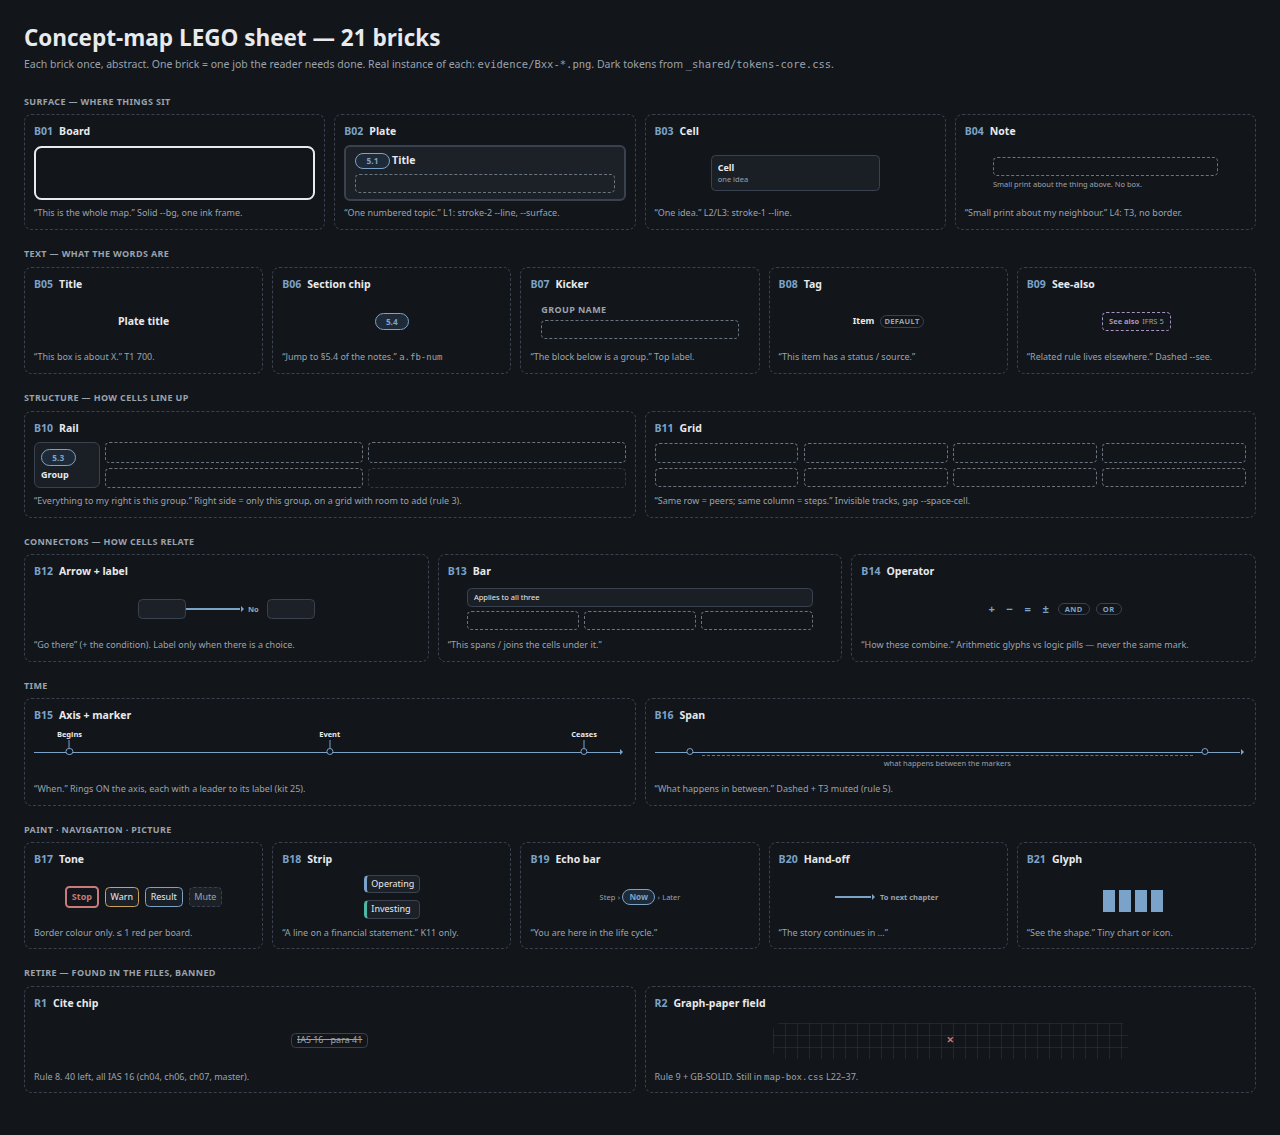
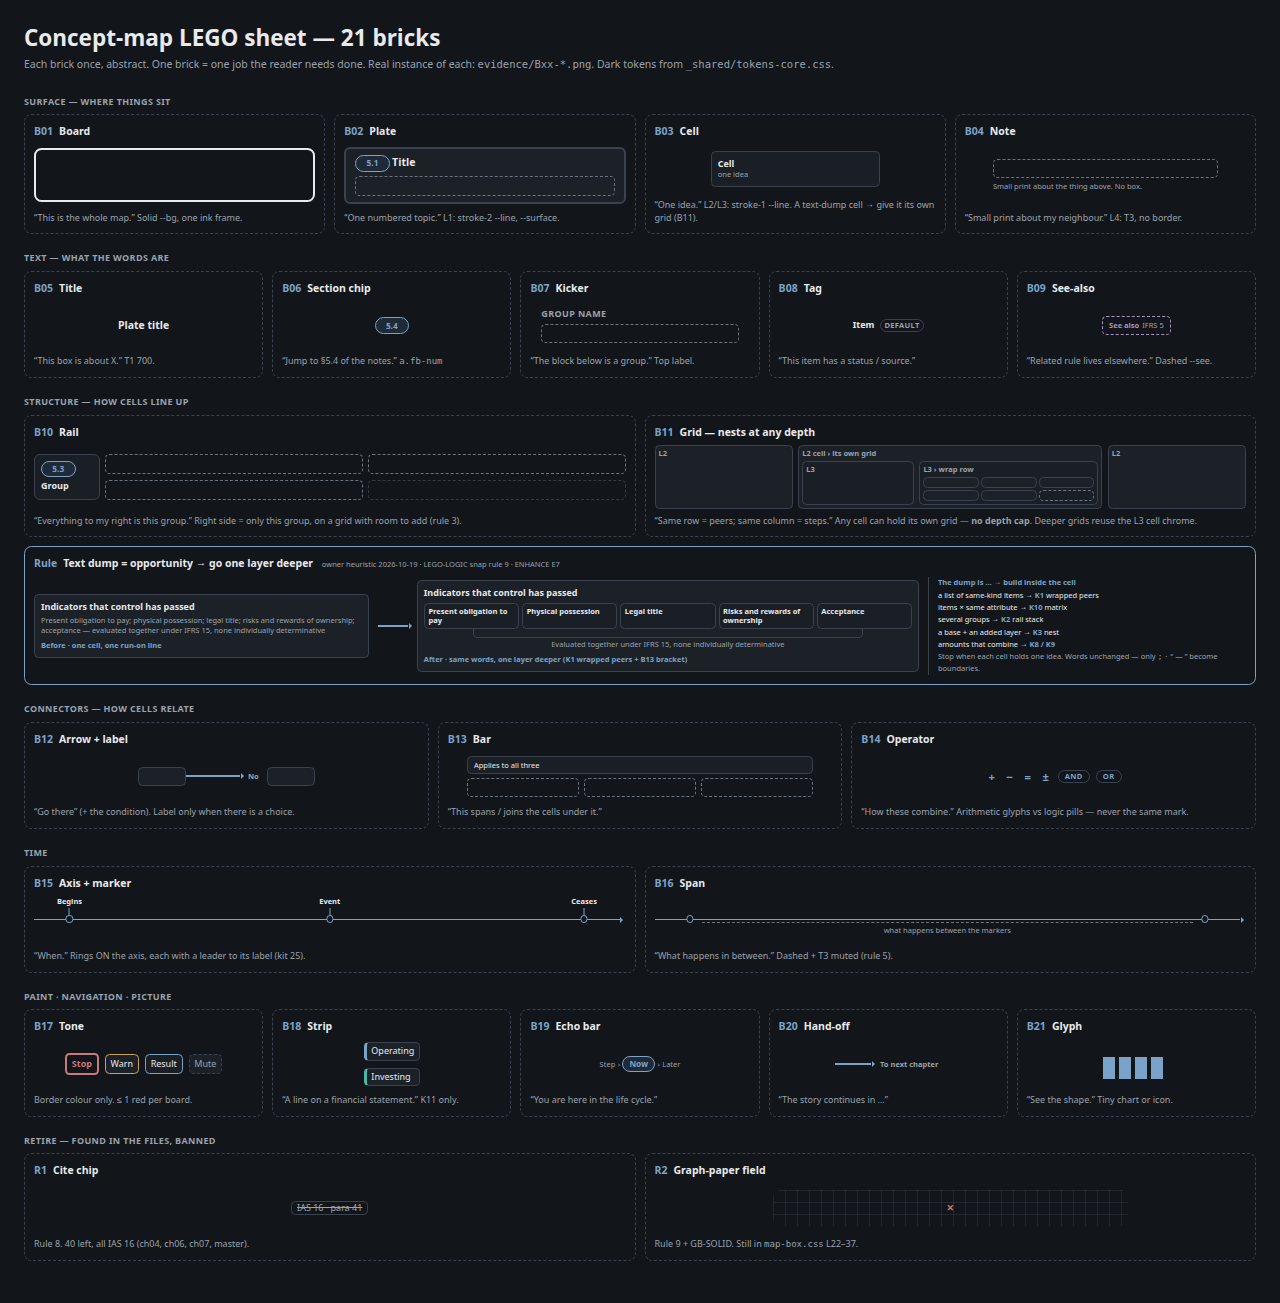
LEGO kit: sheet and combos show nested grids and the go-deeper rule

diff --git a/design/row98-lego-kit/mocks/lego-sheet.html b/design/row98-lego-kit/mocks/lego-sheet.html
@@ -1,6 +1,21 @@
 <!doctype html>
 <html lang="en"><head><meta charset="utf-8"><title>LEGO sheet — 21 bricks</title>
-<link rel="stylesheet" href="kit.css"></head>
+<link rel="stylesheet" href="kit.css">
+<style>
+  .nest-c { padding: .25rem; background: var(--surface); min-height: 2.6rem; }
+  .nest-c.in { background: var(--band); min-height: 1.8rem; }
+  .nest-d { padding: 0; min-height: .9rem; background: var(--surface); }
+  .lv { display: block; font-size: var(--t3-fs); color: var(--muted); font-weight: 700; line-height: 1.2; }
+  .deeper { border: var(--stroke-1) solid var(--accent); border-radius: var(--radius-m); padding: var(--space-3); margin-top: var(--space-3); }
+  .deeper .slot-id b { color: var(--accent); margin-right: var(--space-2); }
+  .dref { font-size: var(--t3-fs); color: var(--muted); font-weight: 400; margin-left: var(--space-2); }
+  .deeper-row { display: grid; grid-template-columns: minmax(0, 1fr) auto minmax(0, 1.5fr) minmax(0, .95fr); gap: var(--space-3); align-items: center; margin-top: var(--space-2); }
+  .pk { padding: .2rem .3rem; font-size: var(--t3-fs); font-weight: 700; line-height: 1.25; }
+  .dk { font-size: var(--t3-fs); color: var(--accent); font-weight: 700; margin: .35rem 0 0; }
+  .routes { border-left: var(--stroke-1) solid var(--line); padding-left: var(--space-3); }
+  .rt { margin: 0 0 .15rem; font-size: var(--t3-fs); }
+  .rt b { color: var(--accent); }
+</style></head>
 <body>
 <h1 class="sheet-h">Concept-map LEGO sheet — 21 bricks</h1>
 <p class="sheet-sub">Each brick once, abstract. One brick = one job the reader needs done. Real instance of each: <code>evidence/Bxx-*.png</code>. Dark tokens from <code>_shared/tokens-core.css</code>.</p>
@@ -15,7 +30,7 @@
     <p class="slot-job">“One numbered topic.” L1: stroke-2 --line, --surface.</p></div>
   <div class="slot"><p class="slot-id"><b>B03</b>Cell</p>
     <div class="stage"><div class="cell band" style="width:60%"><span class="title-s">Cell</span><div class="note">one idea</div></div></div>
-    <p class="slot-job">“One idea.” L2/L3: stroke-1 --line.</p></div>
+    <p class="slot-job">“One idea.” L2/L3: stroke-1 --line. A text-dump cell → give it its own grid (B11).</p></div>
   <div class="slot"><p class="slot-id"><b>B04</b>Note</p>
     <div class="stage"><div style="width:80%"><div class="ghost"></div><p class="note" style="margin:.3rem 0 0">Small print about the thing above. No box.</p></div></div>
     <p class="slot-job">“Small print about my neighbour.” L4: T3, no border.</p></div>
@@ -46,10 +61,43 @@
     <div class="stage"><div class="railrow s" style="width:100%"><div class="rail"><span class="chip">5.3</span>Group</div>
       <div class="gridbox" style="grid-template-columns:1fr 1fr"><div class="ghost"></div><div class="ghost"></div><div class="ghost"></div><div class="ghost" style="opacity:.4"></div></div></div></div>
     <p class="slot-job">“Everything to my right is this group.” Right side = only this group, on a grid with room to add (rule 3).</p></div>
-  <div class="slot"><p class="slot-id"><b>B11</b>Grid</p>
-    <div class="stage"><div class="gridbox" style="grid-template-columns:repeat(4,1fr);width:100%"><div class="ghost"></div><div class="ghost"></div><div class="ghost"></div><div class="ghost"></div><div class="ghost"></div><div class="ghost"></div><div class="ghost"></div><div class="ghost"></div></div></div>
-    <p class="slot-job">“Same row = peers; same column = steps.” Invisible tracks, gap --space-cell.</p></div>
-</div></section>
+  <div class="slot"><p class="slot-id"><b>B11</b>Grid — nests at any depth</p>
+    <div class="stage"><div class="gridbox" style="grid-template-columns:1fr 2.2fr 1fr;width:100%;align-items:stretch">
+      <div class="cell nest-c"><span class="lv">L2</span></div>
+      <div class="cell nest-c"><span class="lv">L2 cell › its own grid</span>
+        <div class="gridbox" style="grid-template-columns:1fr 1.6fr;margin-top:.25rem">
+          <div class="cell nest-c in"><span class="lv">L3</span></div>
+          <div class="cell nest-c in"><span class="lv">L3 › wrap row</span>
+            <div class="gridbox" style="grid-template-columns:repeat(3,1fr);gap:.2rem;margin-top:.2rem"><div class="cell nest-d"></div><div class="cell nest-d"></div><div class="cell nest-d"></div><div class="cell nest-d"></div><div class="cell nest-d"></div><div class="ghost" style="min-height:.9rem"></div></div></div>
+        </div></div>
+      <div class="cell nest-c"><span class="lv">L2</span></div></div></div>
+    <p class="slot-job">“Same row = peers; same column = steps.” Any cell can hold its own grid — <b>no depth cap</b>. Deeper grids reuse the L3 cell chrome.</p></div>
+</div>
+
+<div class="deeper">
+  <p class="slot-id"><b>Rule</b>Text dump = opportunity → go one layer deeper <span class="dref">owner heuristic 2026-10-19 · LEGO-LOGIC snap rule 9 · ENHANCE E7</span></p>
+  <div class="deeper-row">
+    <div class="cell"><span class="title-s">Indicators that control has passed</span>
+      <div class="note" style="margin-top:.2rem">Present obligation to pay; physical possession; legal title; risks and rewards of ownership; acceptance — evaluated together under IFRS 15, none individually determinative</div>
+      <p class="dk">Before · one cell, one run-on line</p></div>
+    <div class="ah" style="width:2.5rem"></div>
+    <div class="cell"><span class="title-s">Indicators that control has passed</span>
+      <div class="gridbox" style="grid-template-columns:repeat(5,1fr);gap:.25rem;margin-top:.3rem">
+        <div class="cell band pk">Present obligation to pay</div><div class="cell band pk">Physical possession</div><div class="cell band pk">Legal title</div><div class="cell band pk">Risks and rewards of ownership</div><div class="cell band pk">Acceptance</div></div>
+      <div class="junction" style="margin:0 10%"></div>
+      <div class="note" style="text-align:center;margin-top:.2rem">Evaluated together under IFRS 15, none individually determinative</div>
+      <p class="dk">After · same words, one layer deeper (K1 wrapped peers + B13 bracket)</p></div>
+    <div class="routes">
+      <p class="dk" style="margin:0 0 .2rem">The dump is … → build inside the cell</p>
+      <p class="rt">a list of same-kind items → <b>K1</b> wrapped peers</p>
+      <p class="rt">items × same attribute → <b>K10</b> matrix</p>
+      <p class="rt">several groups → <b>K2</b> rail stack</p>
+      <p class="rt">a base + an added layer → <b>K3</b> nest</p>
+      <p class="rt">amounts that combine → <b>K8 / K9</b></p>
+      <p class="rt mute">Stop when each cell holds one idea. Words unchanged — only <code>;</code> <code>·</code> “ — ” become boundaries.</p></div>
+  </div>
+</div>
+</section>
 
 <section class="fam"><p class="fam-h">Connectors — how cells relate</p>
 <div class="tray t3">

diff --git a/design/row98-lego-kit/mocks/lego-combos.html b/design/row98-lego-kit/mocks/lego-combos.html
@@ -14,10 +14,15 @@
   .col { display: grid; gap: var(--space-2); justify-items: start; }
   .mini { padding: var(--space-1) var(--space-2); font-size: var(--t3-fs); }
   .id { font-size: var(--t3-fs); color: var(--accent); font-weight: 700; }
+  .deep { margin: 0; font-size: var(--t3-fs); color: var(--muted); border-left: var(--stroke-2) solid var(--accent); padding-left: var(--space-2); }
+  .deep b { color: var(--ink); }
+  .cell.in { padding: var(--space-1); display: grid; gap: var(--space-1); }
+  .cell.in > .gridbox { grid-template-columns: repeat(3, 1fr); }
+  .cell.in .cell { padding: .1rem .25rem; min-height: .9rem; }
 </style></head>
 <body>
 <h1 class="sheet-h">How bricks snap into components</h1>
-<p class="sheet-sub">Pick the component from the accounting idea (LEGO-LOGIC.md §1), then build it only from bricks B01–B21. Real examples: <code>evidence/C-*.png</code>.</p>
+<p class="sheet-sub">Pick the component from the accounting idea (LEGO-LOGIC.md §1), then build it only from bricks B01–B21. Real examples: <code>evidence/C-*.png</code>. Components nest inside a cell with <b>no depth cap</b>: a text-dump cell is the cue to snap one more component inside it (snap rule 9, ENHANCE E7).</p>
 
 <div class="tray t3">
 
@@ -25,19 +30,22 @@
   <div class="barband">Shared rule — spans all peers <span class="id">B13</span></div>
   <div class="row"><div class="cell mini"><span class="title-s">Peer</span><div class="note">B03</div></div><div class="cell mini"><span class="title-s">Peer</span><div class="note">B03</div></div><div class="cell mini"><span class="title-s">Peer</span><div class="note">B03</div></div></div>
   <p class="recipe"><code>B11 row</code> of <code>B03</code> + optional <code>B13</code> above + optional <code>B21</code></p>
-  <p class="real">IAS 16 ch05 §5.5 Method · CF ch02 §2.6 Enhancing</p></div>
+  <p class="real">IAS 16 ch05 §5.5 Method · CF ch02 §2.6 Enhancing</p>
+  <p class="deep"><b>Go deeper:</b> a cell that lists same-kind items in one line → a wrapped K1 inside that cell (IAS 2 ch02 indicators, E7).</p></div>
 
 <div class="combo"><p class="combo-h"><b>K2</b>Rail stack</p><p class="ask">“Each group, with only its own content.”</p>
   <div class="railrow s"><div class="rail mini">Group A <span class="id">B10</span></div><div class="gridbox" style="grid-template-columns:1fr 1fr"><div class="cell mini">B03</div><div class="ghost"></div></div></div>
   <div class="railrow s"><div class="rail mini">Group B</div><div class="gridbox" style="grid-template-columns:1fr 1fr"><div class="cell mini">B03</div><div class="cell mini">B03</div></div></div>
   <p class="recipe"><code>B10</code> | <code>B11</code> of <code>B03</code>, repeated · one shared rail track</p>
-  <p class="real">IAS 16 ch07 Disclosure · ch05 §5.1–5.3</p></div>
+  <p class="real">IAS 16 ch07 Disclosure · ch05 §5.1–5.3</p>
+  <p class="deep"><b>Go deeper:</b> a prose list right of a rail → its own grid in that row; the rail still owns the row.</p></div>
 
 <div class="combo"><p class="combo-h"><b>K3</b>Nest</p><p class="ask">“A base, plus a layer, plus a layer.”</p>
   <div class="railrow s"><div class="rail mini">Outer</div>
-    <div class="railrow s" style="grid-template-columns:4.5rem 1fr"><div class="rail mini">Inner</div><div class="gridbox" style="grid-template-columns:1fr 1fr"><div class="cell mini">Peer</div><div class="cell mini">Peer</div></div></div></div>
-  <p class="recipe"><code>B02</code> › <code>B10</code> › <code>B10</code> › <code>B03</code> · max 2 bordered levels (+1 formula / ledger / see-also)</p>
-  <p class="real">IAS 16 ch05 §5.3 Useful life · IFRS 18 ch03 MBA nest</p></div>
+    <div class="railrow s" style="grid-template-columns:4.5rem 1fr"><div class="rail mini">Inner</div><div class="gridbox" style="grid-template-columns:1fr 1.6fr"><div class="cell mini">Peer</div><div class="cell mini in"><span class="note">Peer › its own grid</span><div class="gridbox"><div class="cell"></div><div class="cell"></div><div class="cell"></div></div></div></div></div></div>
+  <p class="recipe"><code>B02</code> › <code>B10</code> › <code>B10</code> › <code>B03</code> › … · <b>no depth cap</b>: add a level for each layer the idea has</p>
+  <p class="real">IAS 16 ch05 §5.3 Useful life · IFRS 18 ch03 MBA nest</p>
+  <p class="deep"><b>Go deeper:</b> base rule + added layer in one paragraph → base cell with the layer nested under it. S13 depth-cut on HOLD.</p></div>
 
 <div class="combo"><p class="combo-h"><b>K4</b>AND-gate (OR-gate)</p><p class="ask">“All of these must hold.”</p>
   <div class="row"><div class="cell mini">Criterion</div><span class="and">AND</span><div class="cell mini">Criterion</div></div>
@@ -90,7 +98,8 @@
     <div style="background:var(--band);padding:.25rem .4rem;font-weight:700;border-top:var(--stroke-1) solid var(--line)">Question 1</div><div style="padding:.25rem .4rem;border-top:var(--stroke-1) solid var(--line);border-left:var(--stroke-1) solid var(--line)">…</div><div style="padding:.25rem .4rem;border-top:var(--stroke-1) solid var(--line);border-left:var(--stroke-1) solid var(--line)">…</div>
     <div style="background:var(--band);padding:.25rem .4rem;font-weight:700;border-top:var(--stroke-1) solid var(--line)">Question 2</div><div style="padding:.25rem .4rem;border-top:var(--stroke-1) solid var(--line);border-left:var(--stroke-1) solid var(--line)">…</div><div style="padding:.25rem .4rem;border-top:var(--stroke-1) solid var(--line);border-left:var(--stroke-1) solid var(--line)">…</div></div>
   <p class="recipe">one frame + <code>B11</code> tracks + rules · stub column on --band · header <code>B05</code></p>
-  <p class="real">CF ch08 §8.1 · CF ch06 §6.4 · IFRS 18 ch02 §2.3</p></div>
+  <p class="real">CF ch08 §8.1 · CF ch06 §6.4 · IFRS 18 ch02 §2.3</p>
+  <p class="deep"><b>Go deeper:</b> “X: a; Y: b” in one cell is an unpivoted matrix → a small K10 inside the cell (IAS 2 ch04 §4.5).</p></div>
 
 <div class="combo"><p class="combo-h"><b>K11</b>Statement</p><p class="ask">“What the face looks like.”</p>
   <div class="col" style="width:100%;gap:.25rem">
